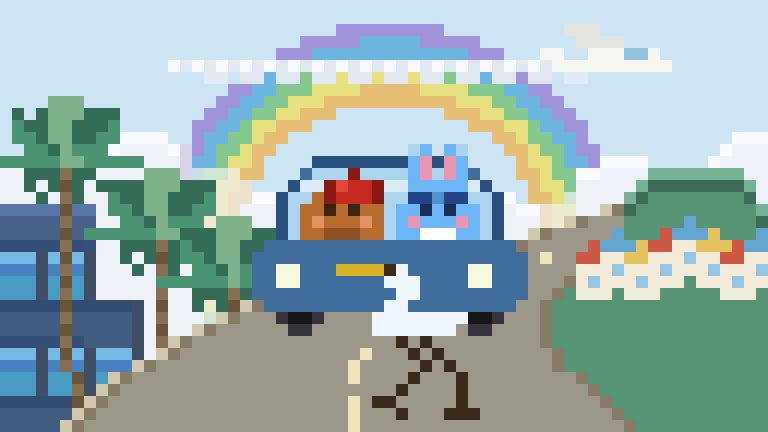
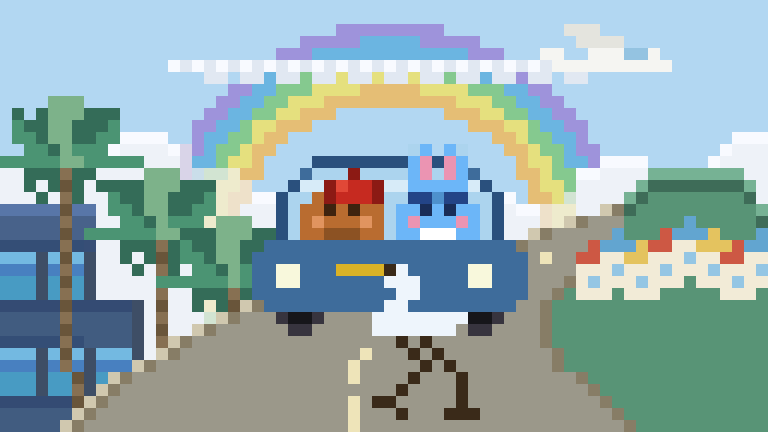
rainbow: 天空换晴朗蓝

Changed region(s): [[0.0, 0.0, 1.0, 0.3912], [0.3125, 0.2407, 0.6875, 0.4815]]

diff --git a/pixel_rainbow.py b/pixel_rainbow.py
@@ -24,9 +24,9 @@ def wcol(x, y1, y2, c):
         sp(x, y, c)
 
 # ── Colors ──
-SKY     = (205, 228, 242)
-SKY_TOP = (188, 218, 235)
-SKY_HZ  = (230, 238, 245)   # horizon glow
+SKY     = (178, 215, 242)
+SKY_TOP = (158, 205, 238)
+SKY_HZ  = (215, 232, 245)   # horizon glow
 
 WW_WALL = ( 62,  78, 102)
 WW_WIN  = ( 72, 155, 195)
@@ -65,7 +65,7 @@ fl(0, 35, 0, 63, SKY)
 
 # ── Rainbow ──
 RB_RAW = [(238,185,95),(238,225,105),(125,198,125),(95,175,222),(155,135,215)]
-SKY_C = (185, 218, 242)
+SKY_C = (178, 215, 242)
 _fade_start_x = 0
 _fade_full_x  = 0   # 全圈统一饱和度
 for _bi, _rc in enumerate(RB_RAW):
